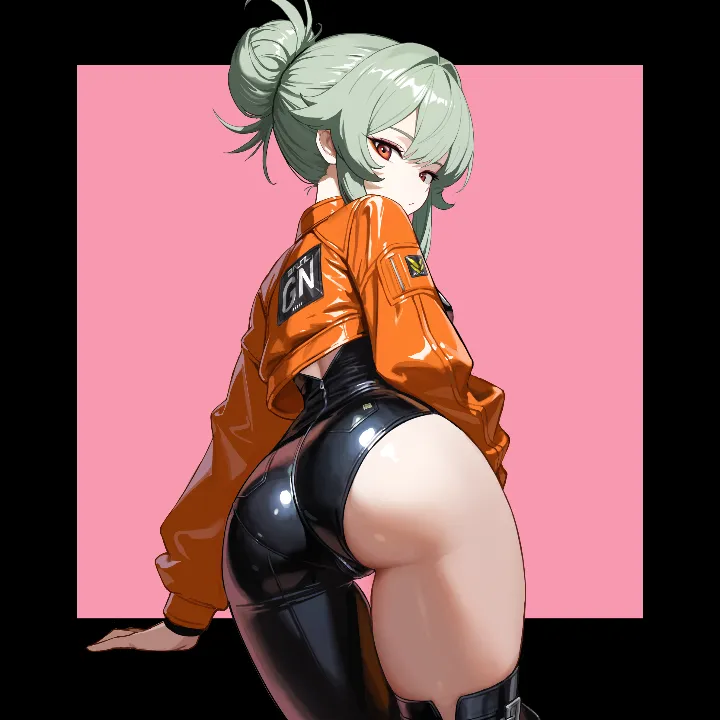
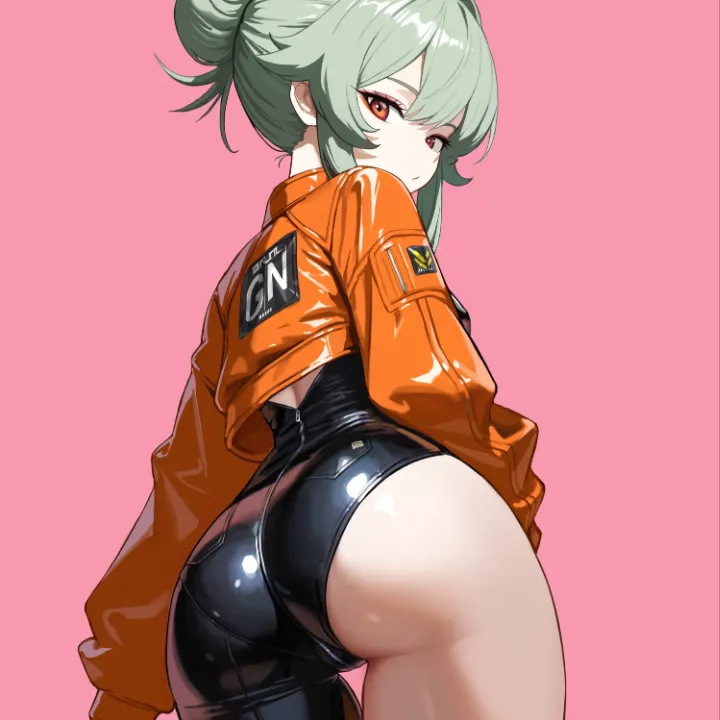
site: 작품 35개 저장 (이미지 14개)

diff --git a/js/data.js b/js/data.js
@@ -11,39 +11,39 @@ window.SITE_META = {
 };
 
 window.PORTFOLIO_DATA = [
-  { id: "img-36", w: 1920, h: 1075, title: "던전앤파이터 이벤트 일러스트", category: "", year: "", description: "© Tencent, Neople", cropScale: 1, cropX: 0.5, cropY: 0.5 },
-  { id: "img-35", w: 5000, h: 2800, title: "던전앤파이터 이벤트 일러스트", category: "", year: "", description: "© Tencent, Neople", cropScale: 0.7, cropX: 0, cropY: 0.6083615592874936 },
-  { id: "img-37", w: 1433, h: 2150, title: "약한영웅 단행본 커버 일러스트", category: "", year: "", description: "", cropScale: 1, cropX: 0.5, cropY: 0.5 },
-  { id: "img-07", w: 1906, h: 2171, title: "습작", category: "", year: "", description: "", cropScale: 1, cropX: 0.5, cropY: 0.5 },
-  { id: "img-30", w: 4770, h: 5325, title: "", category: "", year: "", description: "", cropScale: 1, cropX: 0.5, cropY: 0.5 },
-  { id: "img-03", w: 4200, h: 5376, title: "", category: "", year: "", description: "", cropScale: 1, cropX: 0.5, cropY: 0.5 },
-  { id: "img-23", w: 1920, h: 3000, title: "", category: "", year: "", description: "", cropScale: 1, cropX: 0.5, cropY: 0.5 },
-  { id: "img-32", w: 1920, h: 1919, title: "엘룬 캐릭터 일러스트(게임빌)", category: "", year: "", description: "", cropScale: 0.23, cropX: 0.5267076941802215, cropY: 0.2950536554509943 },
-  { id: "img-31", w: 6988, h: 3883, title: "엘룬 캐릭터 일러스트(게임빌)", category: "", year: "", description: "", cropScale: 1, cropX: 0.5, cropY: 0.5 },
-  { id: "img-33", w: 1920, h: 1511, title: "엘룬 캐릭터 일러스트(게임빌)", category: "", year: "", description: "", cropScale: 0.2, cropX: 0.47383264608249803, cropY: 0.3620989464097104 },
-  { id: "img-12", w: 1920, h: 1924, title: "", category: "", year: "", description: "", cropScale: 1, cropX: 0.5, cropY: 0.5 },
-  { id: "img-09", w: 1920, h: 1336, title: "", category: "", year: "", description: "", cropScale: 1, cropX: 0.5, cropY: 0.5 },
-  { id: "img-13", w: 1920, h: 2259, title: "", category: "", year: "", description: "", cropScale: 1, cropX: 0.5, cropY: 0.5 },
-  { id: "img-14", w: 1920, h: 2960, title: "", category: "", year: "", description: "", cropScale: 1, cropX: 0.5, cropY: 0.5 },
-  { id: "img-15", w: 1502, h: 1668, title: "", category: "", year: "", description: "", cropScale: 1, cropX: 0.5, cropY: 0.5 },
-  { id: "img-16", w: 1684, h: 1684, title: "", category: "", year: "", description: "", cropScale: 1, cropX: 0.5, cropY: 0.5 },
-  { id: "img-17", w: 1920, h: 2105, title: "", category: "", year: "", description: "", cropScale: 1, cropX: 0.5, cropY: 0.5 },
-  { id: "img-06", w: 5000, h: 2800, title: "", category: "", year: "", description: "", cropScale: 1, cropX: 0.5, cropY: 0.5 },
-  { id: "img-26", w: 3090, h: 5866, title: "", category: "", year: "", description: "", cropScale: 1, cropX: 0.5, cropY: 0.5 },
-  { id: "img-27", w: 3000, h: 4200, title: "", category: "", year: "", description: "", cropScale: 1, cropX: 0.5, cropY: 0.5 },
-  { id: "img-01", w: 1920, h: 1080, title: "", category: "", year: "", description: "", cropScale: 1, cropX: 0.5, cropY: 0.5 },
-  { id: "img-02", w: 4770, h: 5325, title: "", category: "", year: "", description: "", cropScale: 1, cropX: 0.5, cropY: 0.5 },
-  { id: "img-08", w: 1676, h: 2034, title: "습작", category: "", year: "", description: "", cropScale: 1, cropX: 0.5, cropY: 0.5 },
-  { id: "img-10", w: 5000, h: 5000, title: "", category: "", year: "", description: "", cropScale: 1, cropX: 0.5, cropY: 0.5 },
-  { id: "img-25", w: 3852, h: 2124, title: "", category: "", year: "", description: "", cropScale: 1, cropX: 0.5, cropY: 0.5 },
-  { id: "img-22", w: 1920, h: 2716, title: "", category: "", year: "", description: "", cropScale: 1, cropX: 0.5, cropY: 0.5 },
-  { id: "img-11", w: 1200, h: 1697, title: "", category: "", year: "", description: "", cropScale: 1, cropX: 0.5, cropY: 0.5 },
-  { id: "img-04", w: 6988, h: 3883, title: "", category: "", year: "", description: "", cropScale: 1, cropX: 0.5, cropY: 0.5 },
-  { id: "img-05", w: 10663, h: 7214, title: "", category: "", year: "", description: "", cropScale: 1, cropX: 0.5, cropY: 0.5 },
-  { id: "img-18", w: 1920, h: 1075, title: "", category: "", year: "", description: "", cropScale: 1, cropX: 0.5, cropY: 0.5 },
-  { id: "img-19", w: 1920, h: 1511, title: "", category: "", year: "", description: "", cropScale: 1, cropX: 0.5, cropY: 0.5 },
-  { id: "img-20", w: 1920, h: 1919, title: "", category: "", year: "", description: "", cropScale: 1, cropX: 0.5, cropY: 0.5 },
-  { id: "img-21", w: 1411, h: 1411, title: "", category: "", year: "", description: "", cropScale: 1, cropX: 0.5, cropY: 0.5 },
-  { id: "img-24", w: 5000, h: 2800, title: "", category: "", year: "", description: "", cropScale: 1, cropX: 0.5, cropY: 0.5 },
-  { id: "img-28", w: 5333, h: 3000, title: "", category: "", year: "", description: "", cropScale: 1, cropX: 0.5, cropY: 0.5 }
+  { id: "img-36", w: 1920, h: 1075, title: "던전앤파이터 이벤트 일러스트", category: "", year: "", description: "© Tencent, Neople", cropScale: 1, cropX: 0.5, cropY: 0.5, video: "" },
+  { id: "img-35", w: 5000, h: 2800, title: "던전앤파이터 이벤트 일러스트", category: "", year: "", description: "© Tencent, Neople", cropScale: 0.7, cropX: 0, cropY: 0.6083615592874936, video: "" },
+  { id: "img-37", w: 1433, h: 2150, title: "약한영웅 단행본 커버 일러스트", category: "", year: "", description: "", cropScale: 1, cropX: 0.5, cropY: 0.5, video: "" },
+  { id: "img-07", w: 1906, h: 2171, title: "", category: "", year: "", description: "습작", cropScale: 1, cropX: 0.5, cropY: 0.5, video: "" },
+  { id: "img-30", w: 4770, h: 5325, title: "Ai Workflow", category: "", year: "", description: "레퍼런스에 Comfyui 활용한 작품Ai로 이미지 레퍼런스를 제작하여 해당 이미지를 바탕으로 제작한 이미지 입니다.", cropScale: 0.76, cropX: 0.5534884486473579, cropY: 0.42981358795873764, video: "" },
+  { id: "img-03", w: 4200, h: 5376, title: "Ai Workflow", category: "", year: "", description: "레퍼런스에 Comfyui 활용한 작품Ai로 이미지 레퍼런스를 제작하여 해당 이미지를 바탕으로 제작한 이미지 입니다.", cropScale: 1, cropX: 0.5, cropY: 0.5, video: "" },
+  { id: "img-23", w: 1920, h: 3000, title: "Ai Workflow", category: "", year: "", description: "레퍼런스에 Comfyui 활용한 작품Ai로 이미지 레퍼런스를 제작하여 해당 이미지를 바탕으로 제작한 이미지 입니다.", cropScale: 1, cropX: 0.5, cropY: 0.5, video: "" },
+  { id: "img-32", w: 1920, h: 1919, title: "엘룬 캐릭터 일러스트( GAMEVIL)", category: "", year: "", description: "© GAMEVIL", cropScale: 0.23, cropX: 0.5267076941802215, cropY: 0.2950536554509943, video: "" },
+  { id: "img-31", w: 6988, h: 3883, title: "엘룬 캐릭터 일러스트( GAMEVIL)", category: "", year: "", description: "© GAMEVIL", cropScale: 1, cropX: 0.5, cropY: 0.5, video: "" },
+  { id: "img-33", w: 1920, h: 1511, title: "엘룬 캐릭터 일러스트( GAMEVIL)", category: "", year: "", description: "© GAMEVIL", cropScale: 0.2, cropX: 0.47383264608249803, cropY: 0.3620989464097104, video: "" },
+  { id: "img-09", w: 1920, h: 1336, title: "", category: "", year: "", description: "", cropScale: 1, cropX: 0.5, cropY: 0.5, video: "" },
+  { id: "img-13", w: 1920, h: 2259, title: "", category: "", year: "", description: "", cropScale: 1, cropX: 0.5, cropY: 0.5, video: "" },
+  { id: "img-26", w: 3090, h: 5866, title: "", category: "", year: "", description: "", cropScale: 1, cropX: 0.5, cropY: 0.5, video: "" },
+  { id: "img-17", w: 1920, h: 2105, title: "", category: "", year: "", description: "", cropScale: 1, cropX: 0.5, cropY: 0.5, video: "" },
+  { id: "img-14", w: 1920, h: 2960, title: "", category: "", year: "", description: "", cropScale: 1, cropX: 0.5, cropY: 0.5, video: "" },
+  { id: "img-15", w: 1502, h: 1668, title: "", category: "", year: "", description: "", cropScale: 1, cropX: 0.5, cropY: 0.5, video: "" },
+  { id: "img-27", w: 3000, h: 4200, title: "", category: "", year: "", description: "", cropScale: 1, cropX: 0.5, cropY: 0.5, video: "" },
+  { id: "img-06", w: 5000, h: 2800, title: "", category: "", year: "", description: "", cropScale: 1, cropX: 0.5, cropY: 0.5, video: "" },
+  { id: "img-08", w: 1676, h: 2034, title: "습작", category: "", year: "", description: "센과치히로의 행방불명", cropScale: 1, cropX: 0.5, cropY: 0.5, video: "" },
+  { id: "img-16", w: 1684, h: 1684, title: "피규어 디자인", category: "", year: "", description: "", cropScale: 1, cropX: 0.5, cropY: 0.5, video: "" },
+  { id: "img-22", w: 1920, h: 2716, title: "습작", category: "", year: "", description: "", cropScale: 1, cropX: 0.5, cropY: 0.5, video: "" },
+  { id: "img-12", w: 1920, h: 1924, title: "", category: "", year: "", description: "", cropScale: 1, cropX: 0.5, cropY: 0.5, video: "" },
+  { id: "img-11", w: 1200, h: 1697, title: "", category: "", year: "", description: "", cropScale: 1, cropX: 0.5, cropY: 0.5, video: "" },
+  { id: "img-01", w: 1920, h: 1080, title: "", category: "", year: "", description: "", cropScale: 1, cropX: 0.5, cropY: 0.5, video: "" },
+  { id: "img-02", w: 4770, h: 5325, title: "", category: "", year: "", description: "", cropScale: 1, cropX: 0.5, cropY: 0.5, video: "" },
+  { id: "img-10", w: 5000, h: 5000, title: "", category: "", year: "", description: "", cropScale: 1, cropX: 0.5, cropY: 0.5, video: "" },
+  { id: "img-25", w: 3852, h: 2124, title: "", category: "", year: "", description: "", cropScale: 1, cropX: 0.5, cropY: 0.5, video: "" },
+  { id: "img-04", w: 6988, h: 3883, title: "", category: "", year: "", description: "", cropScale: 1, cropX: 0.5, cropY: 0.5, video: "" },
+  { id: "img-05", w: 10663, h: 7214, title: "", category: "", year: "", description: "", cropScale: 1, cropX: 0.5, cropY: 0.5, video: "" },
+  { id: "img-18", w: 1920, h: 1075, title: "", category: "", year: "", description: "", cropScale: 1, cropX: 0.5, cropY: 0.5, video: "" },
+  { id: "img-19", w: 1920, h: 1511, title: "", category: "", year: "", description: "", cropScale: 1, cropX: 0.5, cropY: 0.5, video: "" },
+  { id: "img-20", w: 1920, h: 1919, title: "", category: "", year: "", description: "", cropScale: 1, cropX: 0.5, cropY: 0.5, video: "" },
+  { id: "img-21", w: 1411, h: 1411, title: "", category: "", year: "", description: "", cropScale: 1, cropX: 0.5, cropY: 0.5, video: "" },
+  { id: "img-24", w: 5000, h: 2800, title: "", category: "", year: "", description: "", cropScale: 1, cropX: 0.5, cropY: 0.5, video: "" },
+  { id: "img-28", w: 5333, h: 3000, title: "", category: "", year: "", description: "", cropScale: 1, cropX: 0.5, cropY: 0.5, video: "" }
 ];
